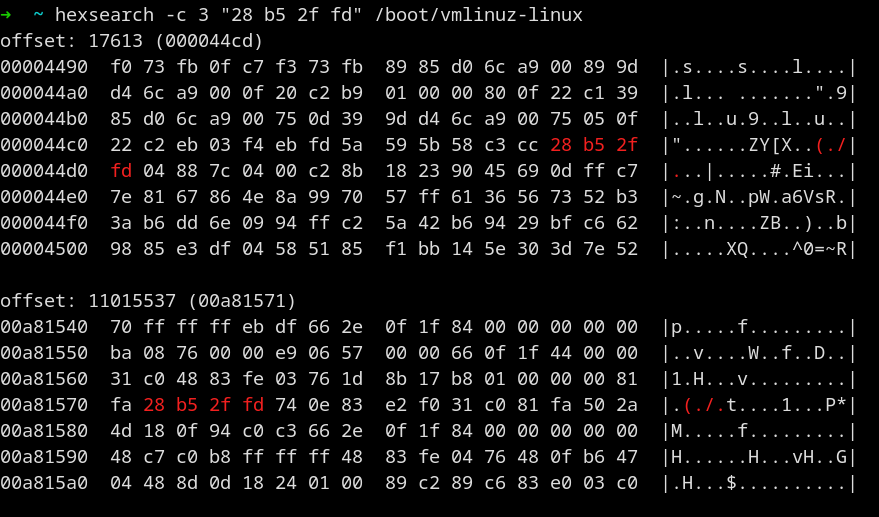
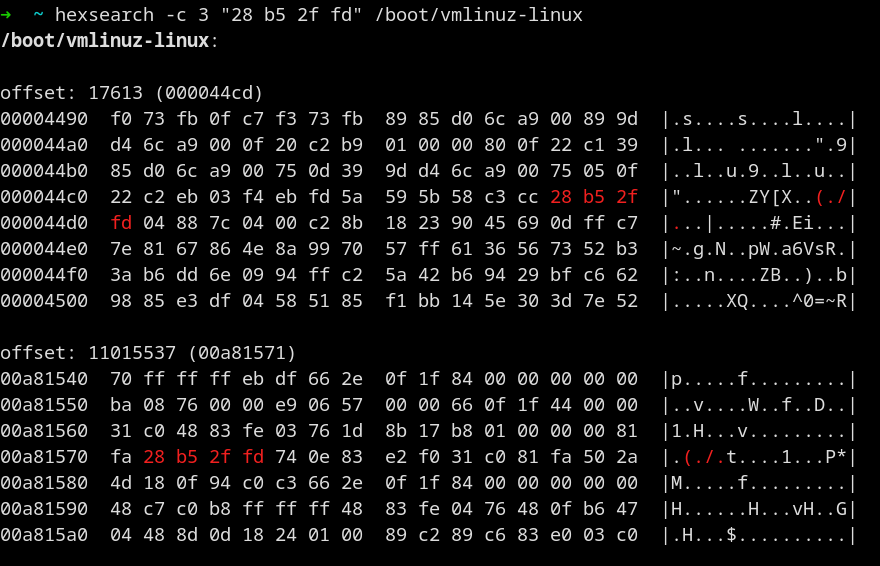
Add support of searching multiple files to work with xargs

diff --git a/src/main.rs b/src/main.rs
@@ -8,6 +8,7 @@ use std::{
 };
 
 const G_VT_DEFAULT: &str = "\x1B[0m";
+const G_VT_BOLD: &str = "\x1B[1m";
 const G_VT_RED: &str = "\x1B[91m";
 
 fn search_regex(file: &File, pattern: &str) -> Result<Vec<usize>, io::Error> {
@@ -115,7 +116,7 @@ fn read_and_print_one_line(
 
 fn main() {
     let matches = Command::new(env!("CARGO_BIN_NAME"))
-        .about("A CLI utility to search arbitrary bytes in a file")
+        .about("A CLI utility to search arbitrary bytes in files")
         .arg_required_else_help(true)
         .arg(
             Arg::new("endian")
@@ -145,7 +146,7 @@ fn main() {
                 .help("Quoted bytes in hexadecimal format either without 0x (e.g.: \"1f 8b 08\")\nor with 0x in one word and respect --endian argument (e.g.: -e little 0x088b1f)")
                 .required(true),
         )
-        .arg(Arg::new("file").help("file to search").required(true))
+        .arg(Arg::new("files").help("files to search").required(true).num_args(1..))
         .get_matches();
 
     let mut pattern = String::new();
@@ -205,104 +206,107 @@ fn main() {
     }
 
     // TODO: add support of reading stdin
-    let file = matches.get_one::<String>("file").unwrap();
-    let mut file = match File::open(file) {
-        Ok(image) => image,
-        Err(err) => {
-            eprintln!("Failed to open file {file}: {err}");
-            return;
-        }
-    };
-
-    let filelen = file.metadata().unwrap().len();
-
-    if let Ok(offsets) = search_regex(&file, &pattern) {
-        let context = matches.get_one::<u8>("context").unwrap_or(&0);
-        // width argument has default value so it's safe to unwrap
-        let line_width = *matches.get_one::<u8>("width").unwrap() as usize;
-
-        offsets.iter().for_each(|offset| {
-            println!("offset: {offset} ({offset:08x})");
-            let line_offset = offset - offset % line_width;
-
-            // print before-context lines
-            for i in (1..=*context).step_by(1).rev() {
-                if line_offset < line_width * i as usize {
-                    continue;
-                }
-                read_and_print_one_line(
-                    &mut file,
-                    line_width,
-                    line_offset - line_width * i as usize,
-                    Range::default(),
-                );
+    let paths = matches.get_many::<String>("files").unwrap();
+    paths.for_each(|path| {
+        let mut file = match File::open(path) {
+            Ok(image) => image,
+            Err(err) => {
+                eprintln!("Failed to open file {path}: {err}");
+                return;
             }
+        };
 
-            // each byte in pattern is represented as 4 characters, e.g.: "\xAA"
-            let bytes = pattern.len() / 4;
-            let byte_offset_start = offset % line_width;
-            // byte_offset_end is the offset of ending color byte (exclusive) in its own line,
-            // which might be different from the line of byte_offset_start
-            let byte_offset_end = (byte_offset_start + bytes) % line_width;
-            // when pattern ends at the end of the line, set the byte_offset_end to line width
-            // so that printing function can work properly
-            let byte_offset_end = if byte_offset_end == 0 {
-                line_width
-            } else {
-                byte_offset_end
-            };
+        let filelen = file.metadata().unwrap().len();
 
-            // calculate how many lines the pattern overlaps
-            let color_lines = {
-                // not start at the line beginning and overlap the line ending
-                let (start_line, remaining_bytes) = if byte_offset_start % line_width != 0
-                    && byte_offset_start + bytes > line_width
-                {
-                    (1, bytes - (line_width - byte_offset_start))
+        println!("{G_VT_BOLD}{path}{G_VT_DEFAULT}:\n");
+        if let Ok(offsets) = search_regex(&file, &pattern) {
+            let context = matches.get_one::<u8>("context").unwrap_or(&0);
+            // width argument has default value so it's safe to unwrap
+            let line_width = *matches.get_one::<u8>("width").unwrap() as usize;
+
+            offsets.iter().for_each(|offset| {
+                println!("offset: {offset} ({offset:08x})");
+                let line_offset = offset - offset % line_width;
+
+                // print before-context lines
+                for i in (1..=*context).step_by(1).rev() {
+                    if line_offset < line_width * i as usize {
+                        continue;
+                    }
+                    read_and_print_one_line(
+                        &mut file,
+                        line_width,
+                        line_offset - line_width * i as usize,
+                        Range::default(),
+                    );
+                }
+
+                // each byte in pattern is represented as 4 characters, e.g.: "\xAA"
+                let bytes = pattern.len() / 4;
+                let byte_offset_start = offset % line_width;
+                // byte_offset_end is the offset of ending color byte (exclusive) in its own line,
+                // which might be different from the line of byte_offset_start
+                let byte_offset_end = (byte_offset_start + bytes) % line_width;
+                // when pattern ends at the end of the line, set the byte_offset_end to line width
+                // so that printing function can work properly
+                let byte_offset_end = if byte_offset_end == 0 {
+                    line_width
                 } else {
-                    (0, bytes)
+                    byte_offset_end
                 };
 
-                start_line + (remaining_bytes + line_width - 1) / line_width
-            };
-            // print color lines
-            for i in (0..color_lines).step_by(1) {
-                read_and_print_one_line(
-                    &mut file,
-                    line_width,
-                    line_offset + line_width * i,
-                    Range {
-                        start: if i == 0 { byte_offset_start } else { 0 },
-                        end: if i == color_lines - 1 {
-                            byte_offset_end
-                        } else {
-                            line_width
+                // calculate how many lines the pattern overlaps
+                let color_lines = {
+                    // not start at the line beginning and overlap the line ending
+                    let (start_line, remaining_bytes) = if byte_offset_start % line_width != 0
+                        && byte_offset_start + bytes > line_width
+                    {
+                        (1, bytes - (line_width - byte_offset_start))
+                    } else {
+                        (0, bytes)
+                    };
+
+                    start_line + (remaining_bytes + line_width - 1) / line_width
+                };
+                // print color lines
+                for i in (0..color_lines).step_by(1) {
+                    read_and_print_one_line(
+                        &mut file,
+                        line_width,
+                        line_offset + line_width * i,
+                        Range {
+                            start: if i == 0 { byte_offset_start } else { 0 },
+                            end: if i == color_lines - 1 {
+                                byte_offset_end
+                            } else {
+                                line_width
+                            },
                         },
-                    },
-                )
-            }
-
-            // move line_offset pointing to next line of color lines
-            let line_offset = line_offset + line_width * color_lines;
-            // print after-context lines
-            for i in (0..*context).step_by(1) {
-                // only check the start offset of the line
-                // and let read_and_print_one_line() handle the end offset of this line
-                if line_offset + line_width * i as usize >= filelen as usize {
-                    println!("(EOF)");
-                    break;
+                    )
                 }
-                read_and_print_one_line(
-                    &mut file,
-                    line_width,
-                    line_offset + line_width * i as usize,
-                    Range::default(),
-                );
-            }
 
-            println!();
-        });
-    } else {
-        eprintln!("Cannot find the bytes: {bytes}");
-    }
+                // move line_offset pointing to next line of color lines
+                let line_offset = line_offset + line_width * color_lines;
+                // print after-context lines
+                for i in (0..*context).step_by(1) {
+                    // only check the start offset of the line
+                    // and let read_and_print_one_line() handle the end offset of this line
+                    if line_offset + line_width * i as usize >= filelen as usize {
+                        println!("(EOF)");
+                        break;
+                    }
+                    read_and_print_one_line(
+                        &mut file,
+                        line_width,
+                        line_offset + line_width * i as usize,
+                        Range::default(),
+                    );
+                }
+
+                println!();
+            });
+        } else {
+            eprintln!("Cannot find the bytes: {bytes}\n");
+        }
+    });
 }

diff --git a/README.md b/README.md
@@ -1,6 +1,6 @@
 # hexsearch
 
-A CLI utility to search arbitrary bytes in a file, by leveraging the power of [regex](https://github.com/rust-lang/regex#usage-match-regular-expressions-on-u8) crate in Rust.
+A CLI utility to search arbitrary bytes in files, by leveraging the power of [regex](https://github.com/rust-lang/regex#usage-match-regular-expressions-on-u8) crate in Rust.
 
 ![](screenshot.png)
 
